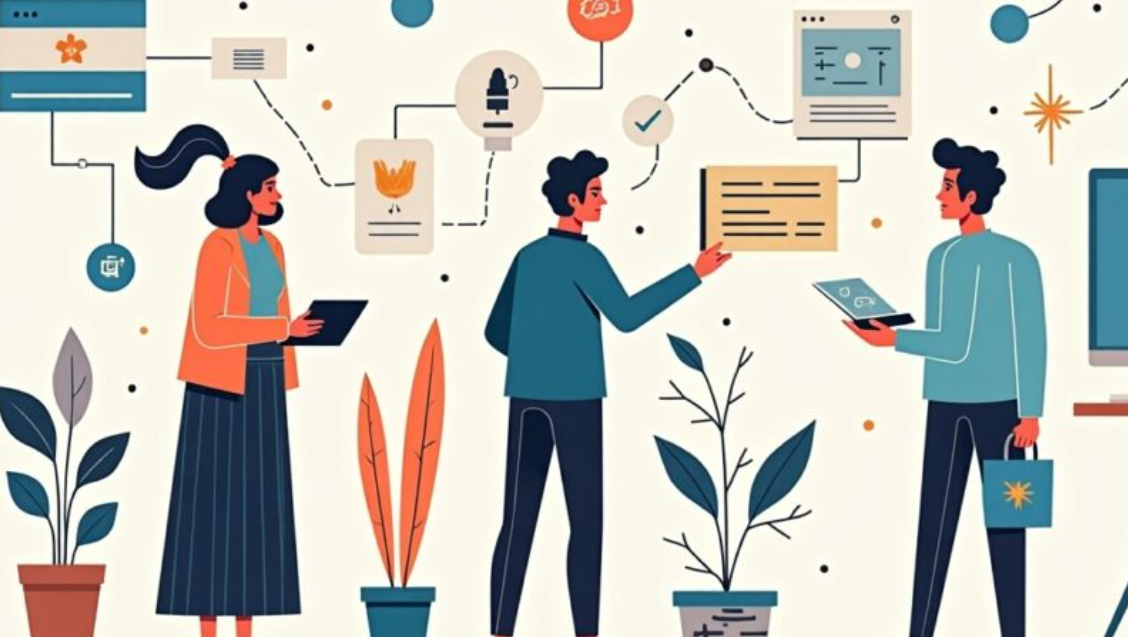
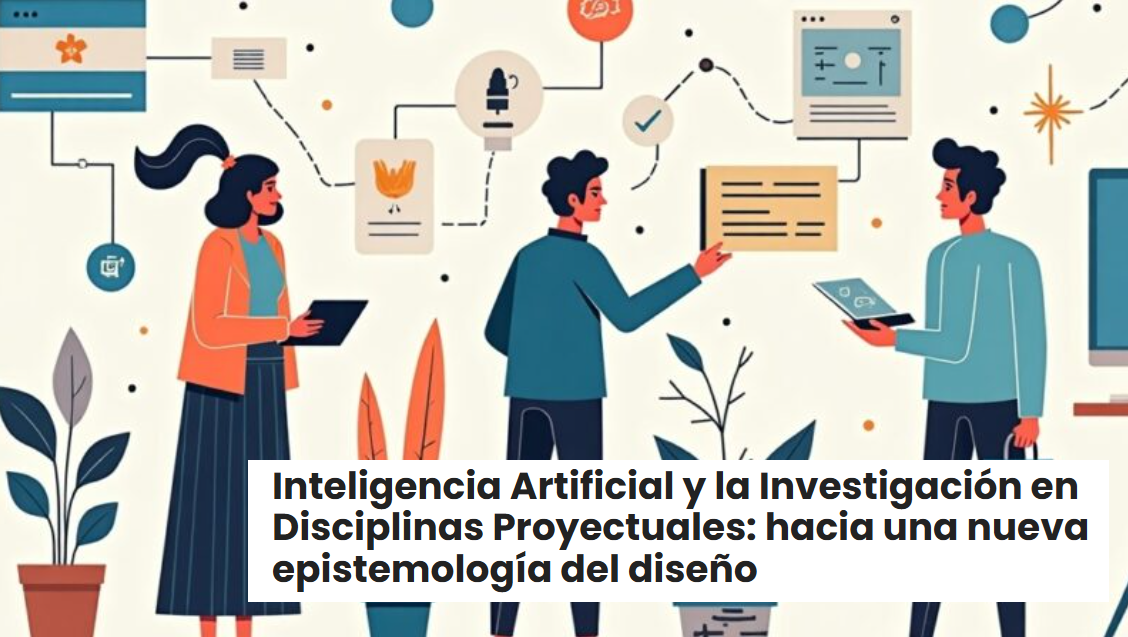
v3

Changed region(s): [[0.2172, 0.7159, 0.9619, 0.9545]]

diff --git a/ofertarecursosia.html b/ofertarecursosia.html
@@ -76,6 +76,13 @@
     </a>
   </article>
 
+   <article class="resource-card">
+    <img src="assets/images/PORTADAS/IAMETODOLOGIA.png" alt="Flyer del recurso IAMETODOLOGIA" />
+    <a href="https://padlet.com/estefifondevilasancet/ponencias-hr2190d05pjnj6gr/wish/mlNDZ3yDj6lKaznG" class="course-access-link">
+      Acceder al recurso
+    </a>
+  </article>
+
   <article class="resource-card">
     <img src="assets/images/PORTADAS/IAETICA.png" alt="Flyer del recurso IAETICA" />
     <a href="https://dsblad.github.io/REVISTADSBLADUNLA/documents/n01/desagregado/DSBLAD01-2025_fondevila-ia_etica.pdf" target="_blank" rel="noopener noreferrer" class="course-access-link">